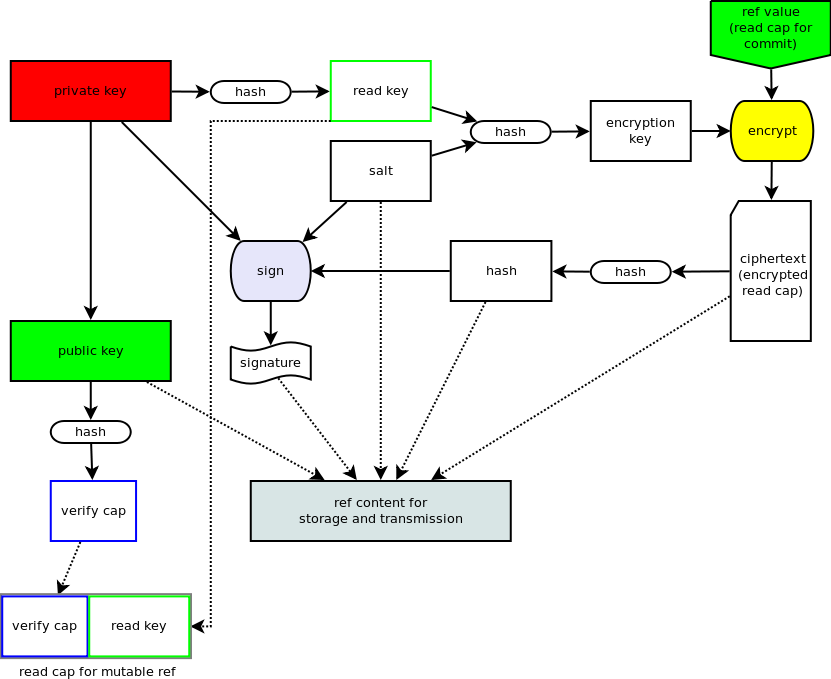
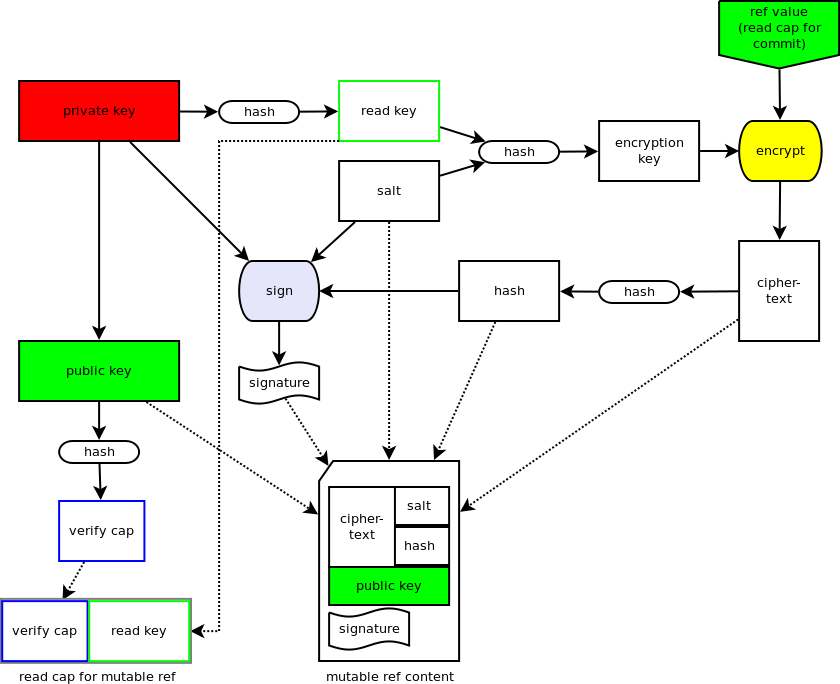
better diagrams

diff --git a/lolstorage.html b/lolstorage.html
@@ -7,7 +7,7 @@ lang="en" xml:lang="en">
 <title>lolstorage: laughably good social networking and content sharing</title>
 <meta http-equiv="Content-Type" content="text/html;charset=iso-8859-1"/>
 <meta name="generator" content="Org-mode"/>
-<meta name="generated" content="2011-06-23 04:15:55 CEST"/>
+<meta name="generated" content="2011-06-23 06:01:42 CEST"/>
 <meta name="author" content="Manuel Simoni"/>
 <meta name="description" content=""/>
 <meta name="keywords" content=""/>
@@ -127,6 +127,9 @@ vaporware.
 <p>
 <a href="#[sec-1.2"><img src="lolstorage/diagrams/mutable.png"/></a>
 </p>
+<p>
+The public key should probably be moved out of the ref content.
+</p>
 
 <hr/>
 </div>
@@ -136,7 +139,7 @@ vaporware.
 <p class="author"> Author: Manuel Simoni
 <a href="mailto:msimoni@gmail.com">&lt;msimoni@gmail.com&gt;</a>
 </p>
-<p class="date"> Date: 2011-06-23 04:15:55 CEST</p>
+<p class="date"> Date: 2011-06-23 06:01:42 CEST</p>
 <p class="creator">HTML generated by org-mode 6.34c in emacs 23</p>
 </div>
 </div>
